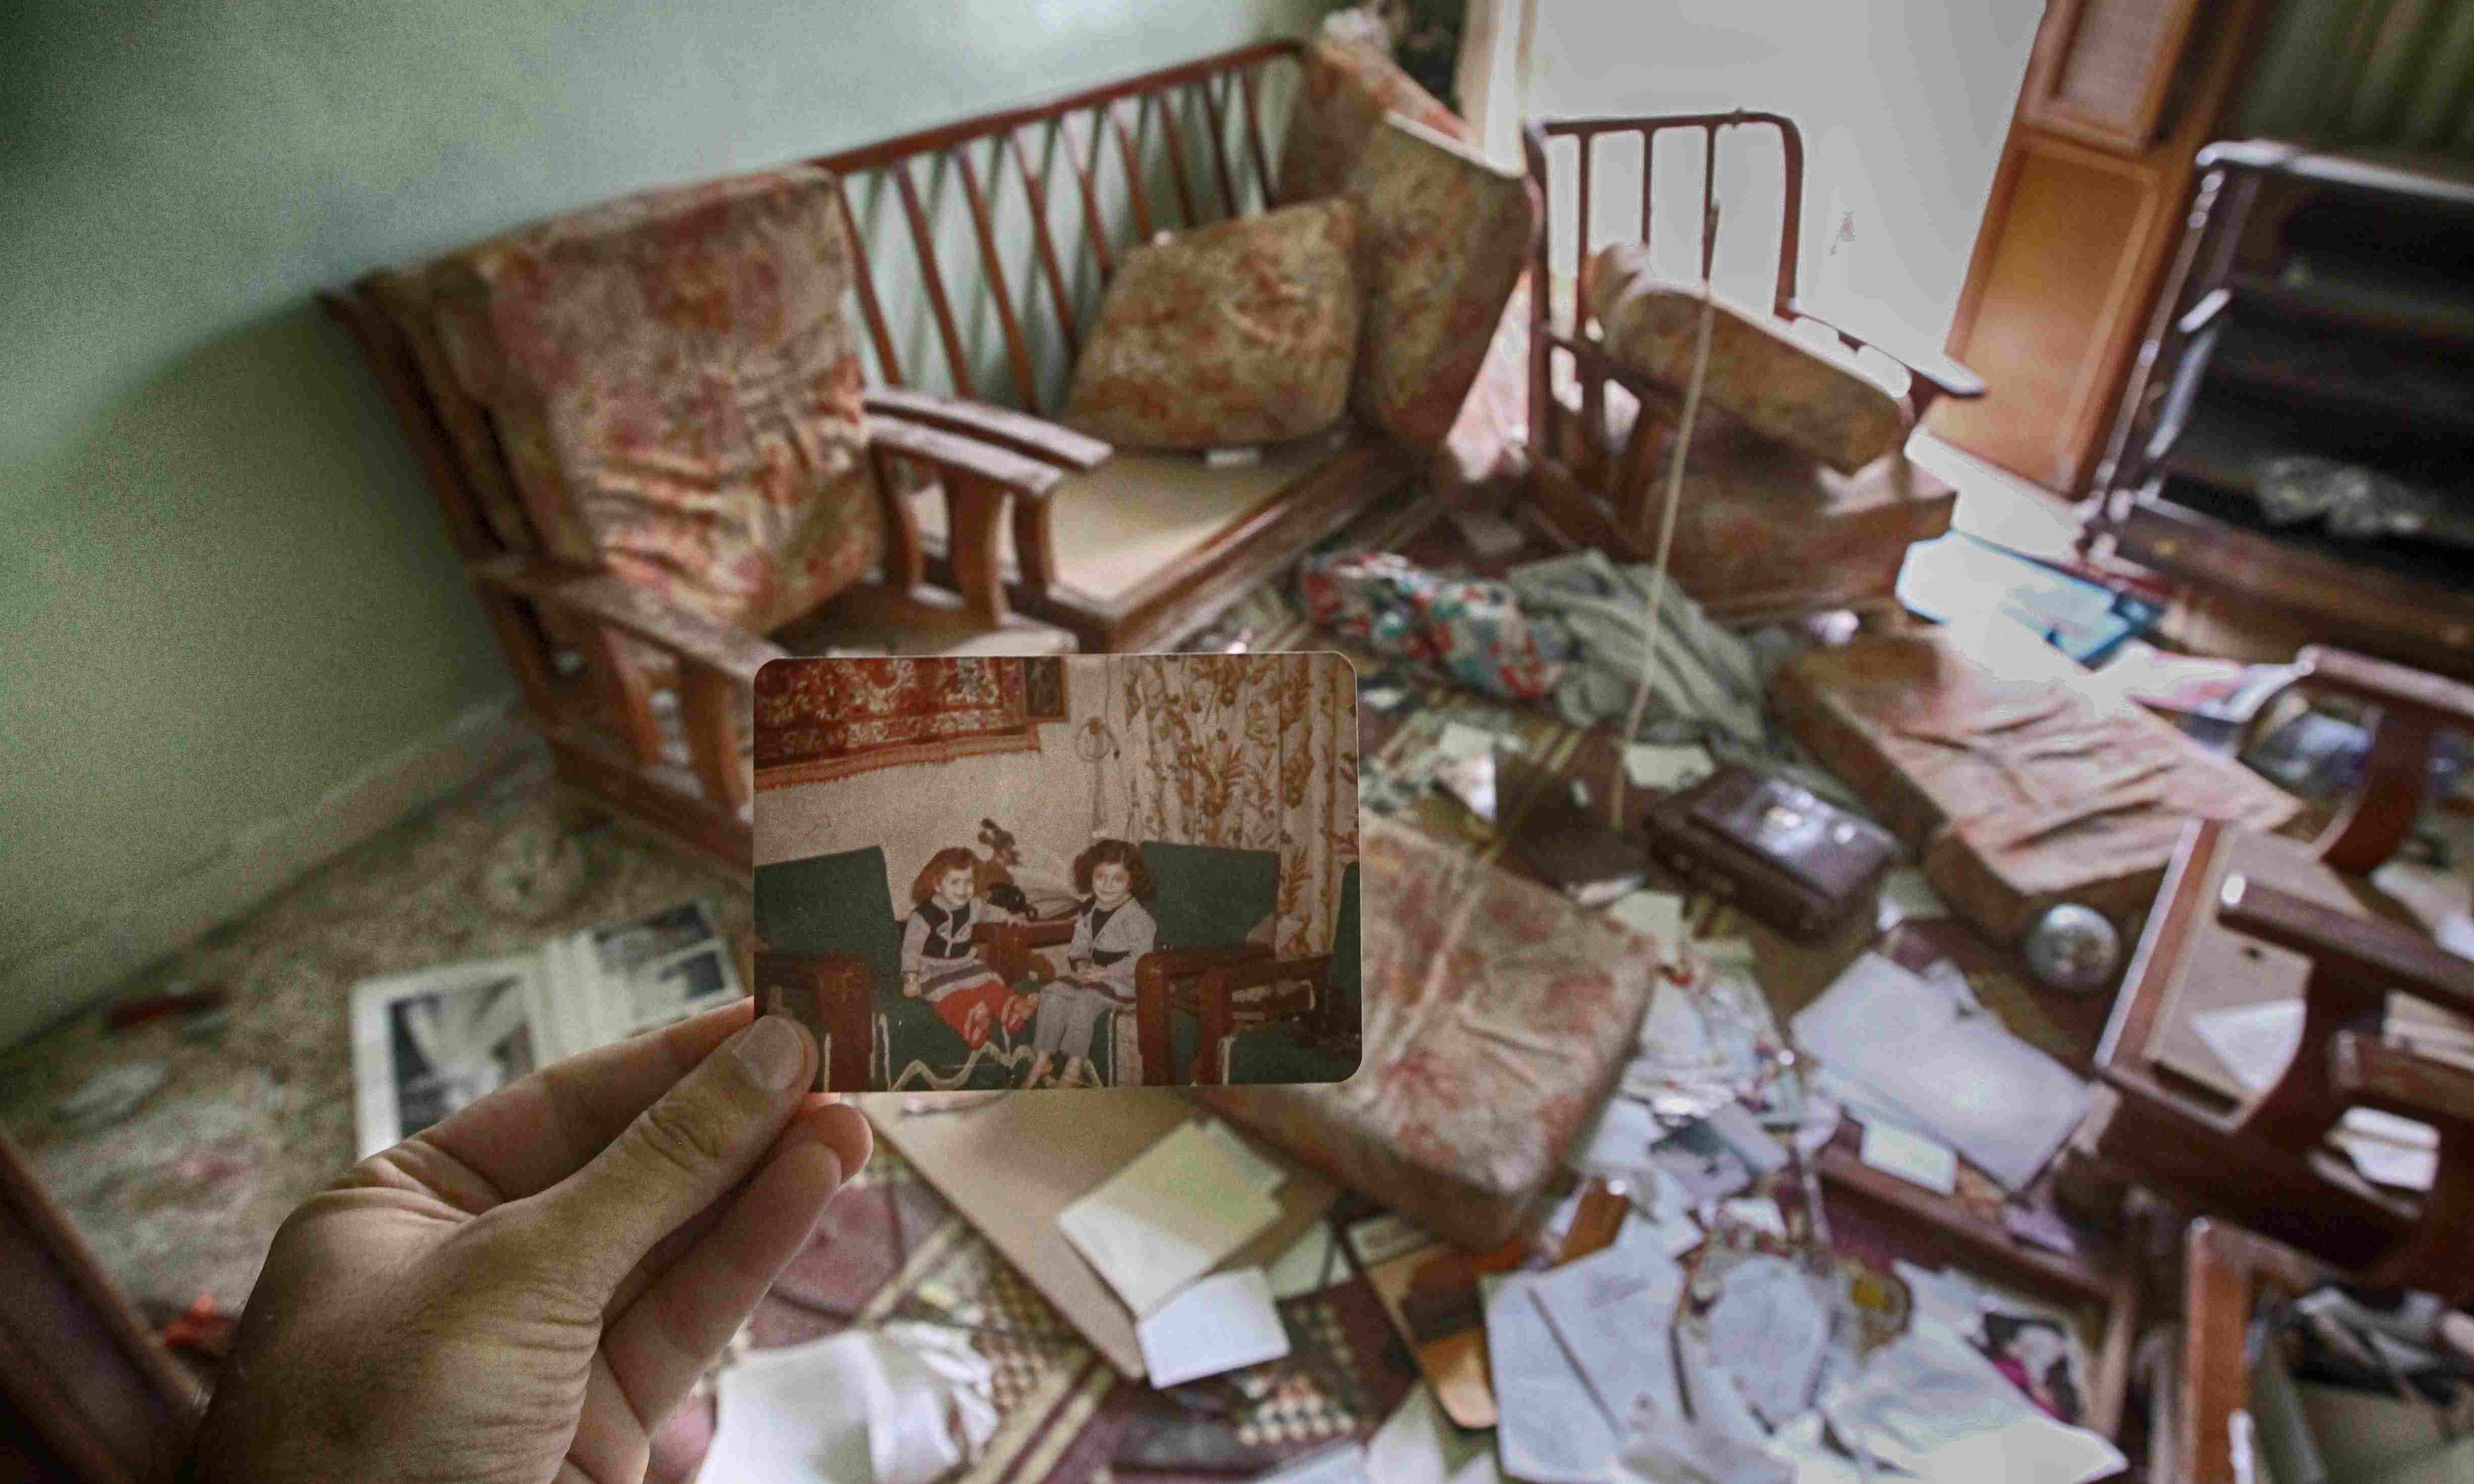
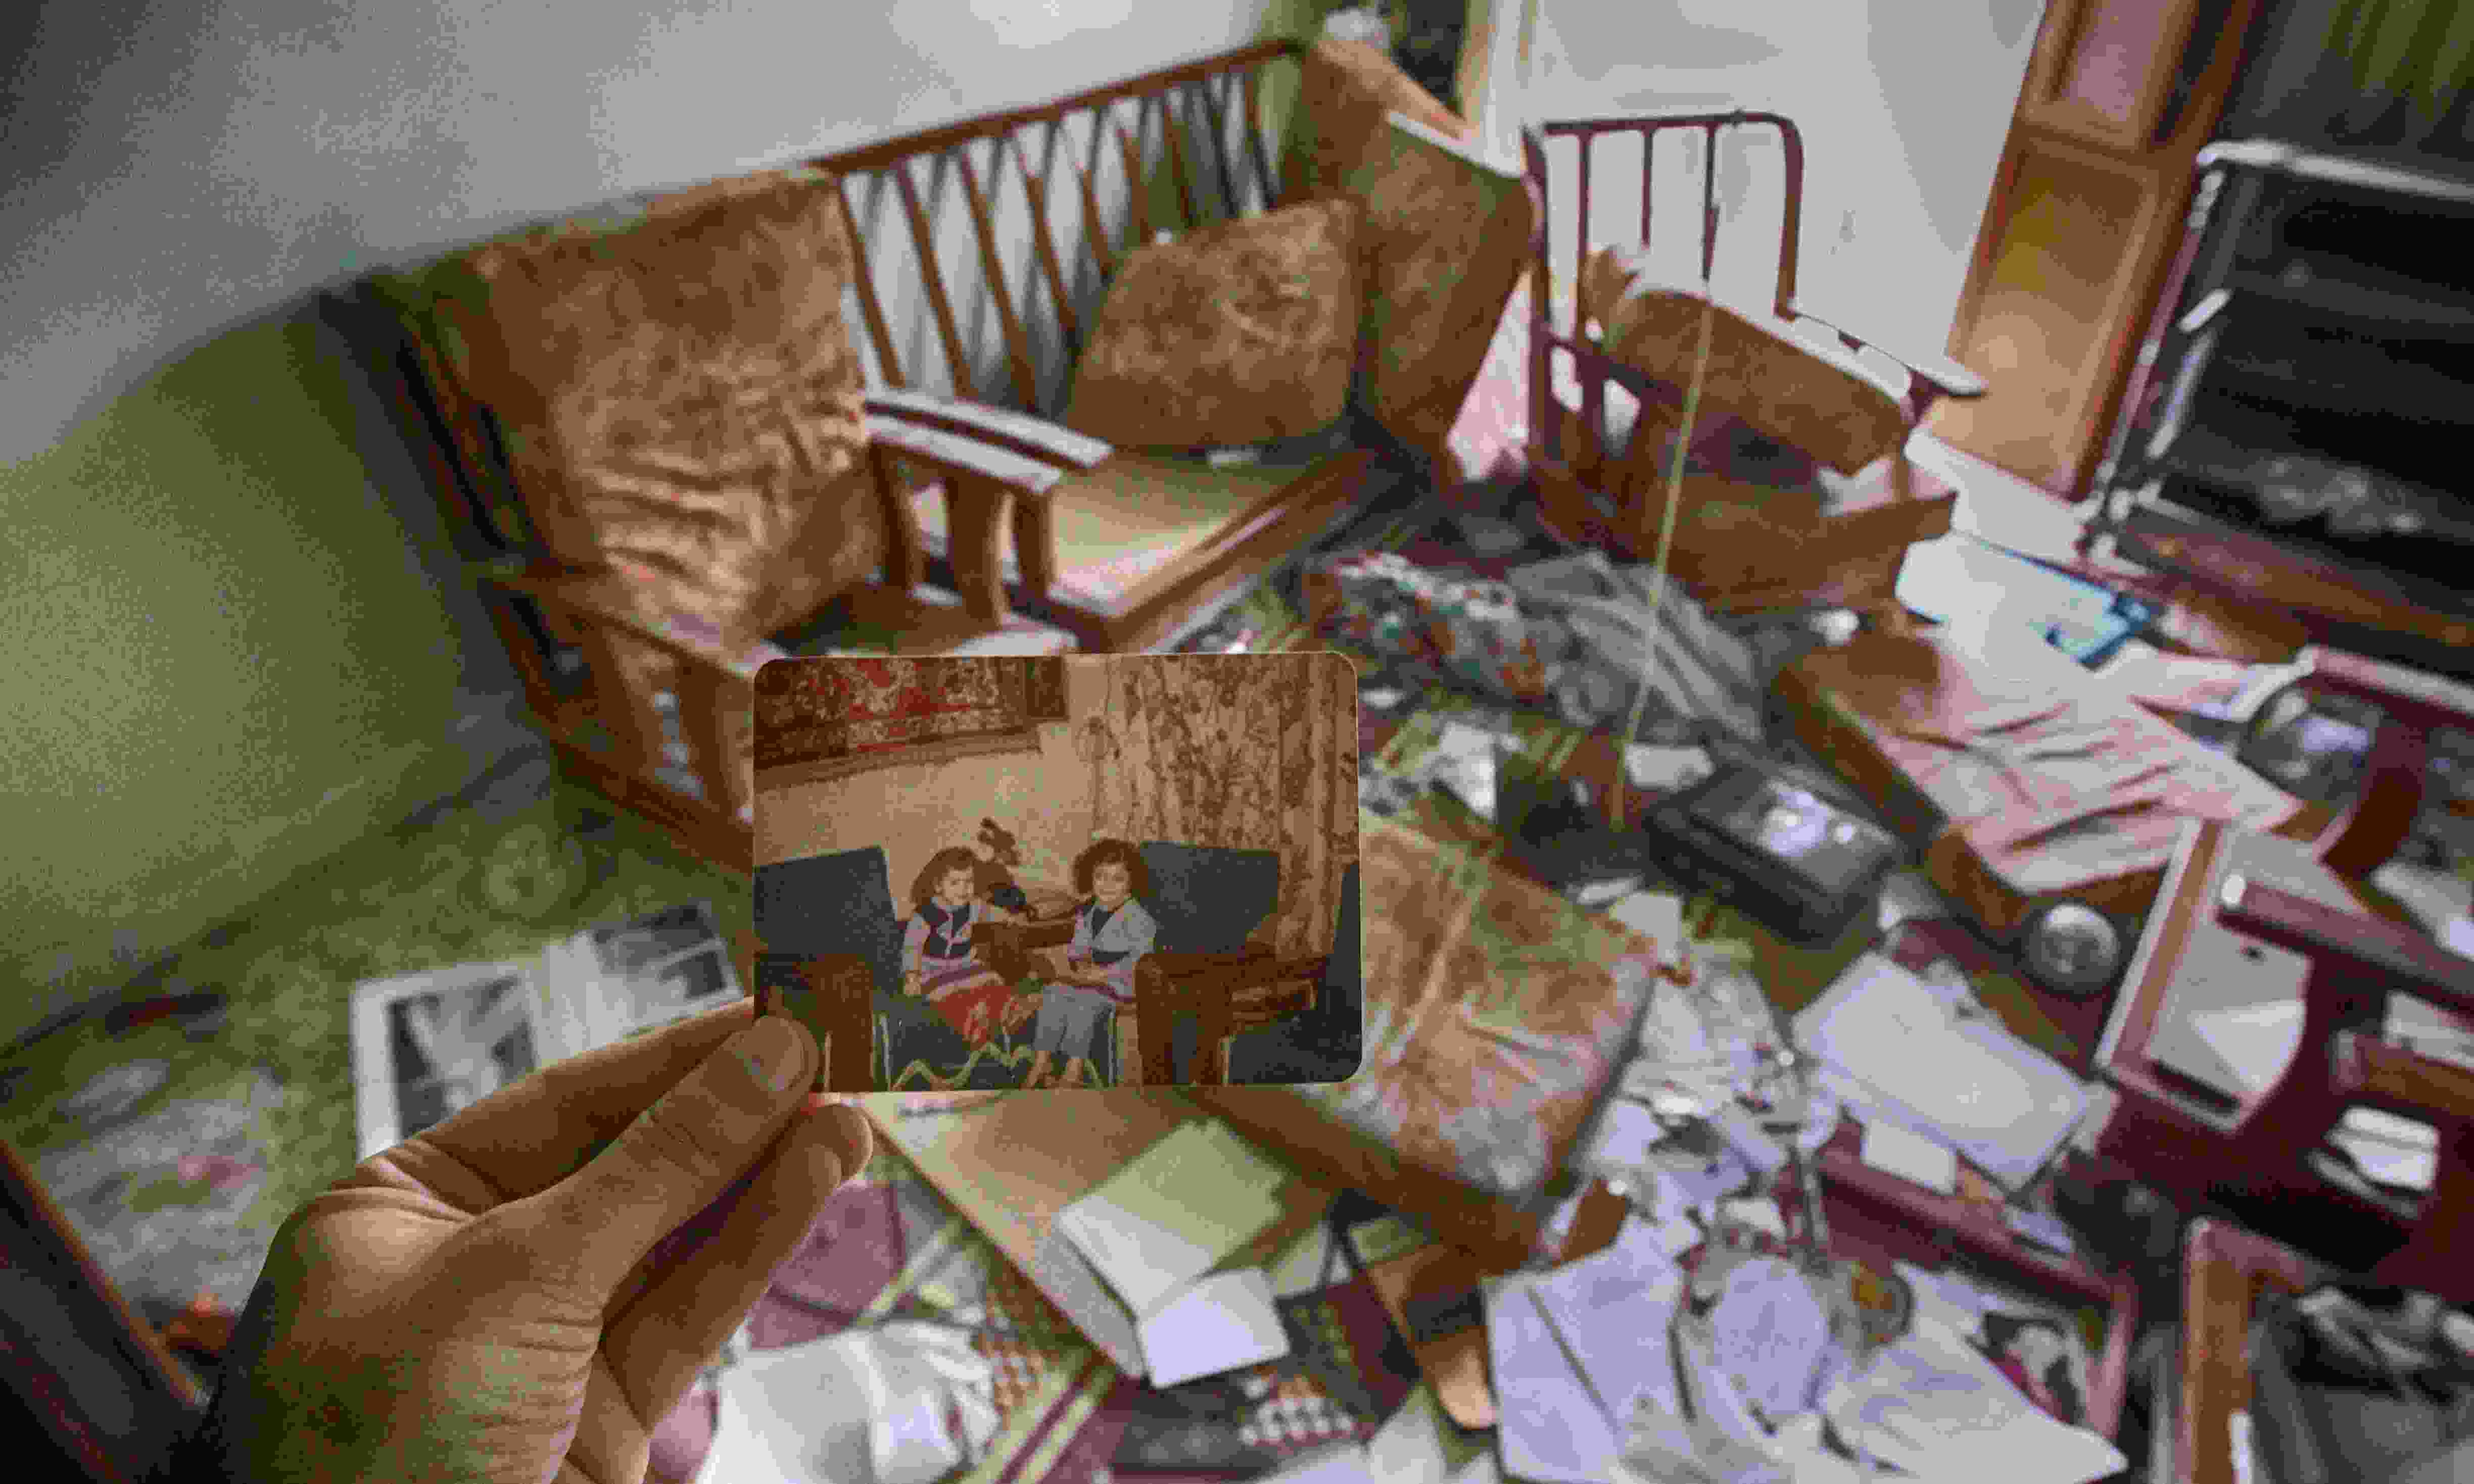
optimizes images

diff --git a/investigations/Talbiseh_ar.md b/investigations/Talbiseh_ar.md
@@ -3,7 +3,7 @@ layout: investigation.html
 title: "استهداف تلبيسة بغارات جويّة يُزعم أنها روسية"
 date: 2018-11-26
 desc: "بعد جمع وتحليل الصور والأدلّة البصريّة التي نشرت على مواقع التواصل الاجتماعي وشبكات الأخبار؛ تبيّن لفريق التحقيقات مفتوحة المصدر في الأرشيف السوري أن مدينة تلبيسة في ريف حمص قد استُهدفت بغارات جوية روسية بتاريخ 30 أيلول سبتمبر 2015"
-image: /assets/investigations/Talbiseh/talbiseh-before-after-updated.png
+image: /assets/investigations/Talbiseh/talbiseh-before-after-updated100.jpg
 ---
 
 ## حول الحادثة

diff --git a/index_en.md b/index_en.md
@@ -3,7 +3,7 @@ layout: syhomepage.html
 title: Syrian Archive
 date: 2017-07-01T00:05:18.055Z
 desc: Curating visual documentation for justice and human rights
-image: /assets/logos/loogback250.jpg
+image: /assets/logos/loogback.jpg
 ---
 
 The **Syrian Archive** is a Syrian-led and initiated collective of human rights activists dedicated to curating visual documentation relating to human rights violations and other crimes committed by all sides during the conflict in Syria with the goal of creating an evidence-based tool for reporting, advocacy and accountability purposes.

diff --git a/investigations/Talbiseh.md b/investigations/Talbiseh.md
@@ -3,7 +3,7 @@ layout: investigation.html
 title: "Alleged Russian airstrike targeted Talbiseh"
 date: 2018-11-26
 desc: "After collecting and analysing visual content published on social media platforms and news networks, Syrian Archive found the town of Talbiseh (Homs Province) was targeted by Russian airstrikes on 30 September 2015"
-image: /assets/investigations/Talbiseh/talbiseh-before-after-updated100.png
+image: /assets/investigations/Talbiseh/talbiseh-before-after-updated100.jpg
 ---
 ## Incident information
 

diff --git a/collections/russian-airstrikes/index.md b/collections/russian-airstrikes/index.md
@@ -3,7 +3,7 @@ layout: "collections/russianairstrikes.html"
 title: Russian Airstrikes Database
 date: 2018-10-31T00:05:18.055Z
 desc: Documentation of alleged Russian airstrikes targeting civilians and civilian infrastructure
-image: /assets/collections/atarib-airstrike100.jpg
+image: /assets/collections/atarib-airstrike.png
 ---
 
 <small>31 Oct 2018</small>

diff --git a/collections/index_ar.md b/collections/index_ar.md
@@ -3,5 +3,5 @@ layout: "investigationshome.html"
 title: مجموعات الحوادث
 date: 2018-04-24T00:05:18.055Z
 desc: محتوى بصري مُجمّع على أساس الحوادث ومُبوبّ موضوعيًا
-image: /assets/collections/collectionsheader.png
+image: /assets/collections/collectionsheader.jpg
 ---

diff --git a/investigations/index_ar.md b/investigations/index_ar.md
@@ -2,5 +2,5 @@
 layout: investigationshome.html
 title: التحقيقات
 desc: "تحليلات وتحقيقات للوثائق البصرية"
-image: /assets/investigations/investigations.jpg
+image: /assets/investigations/investigations100.jpg
 ---

diff --git a/database/index_ar.md b/database/index_ar.md
@@ -2,5 +2,5 @@
 layout: observationsdatabase.html
 title: قاعدة بيانات الإنتهاكات
 desc: تتضمن فيديوهات تم التحقق منها
-image: "/assets/main_back.jpg"
+image: "/assets/main_back100.jpg"
 ---
